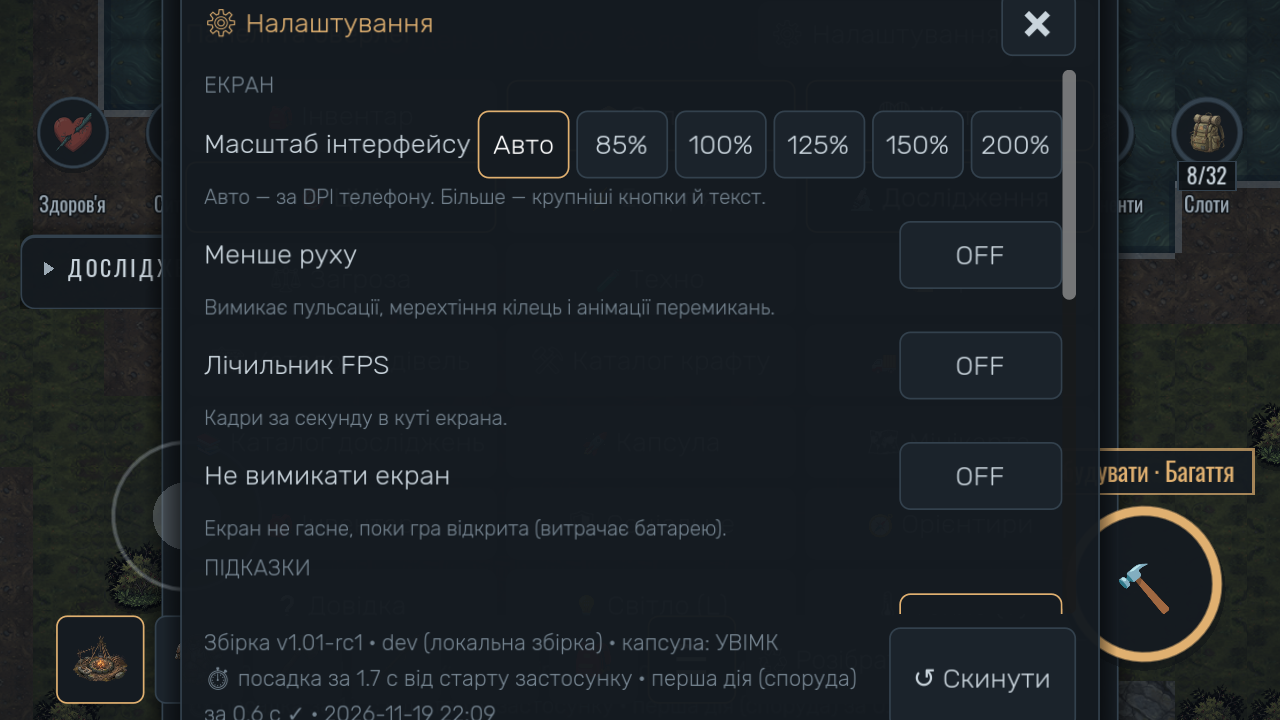
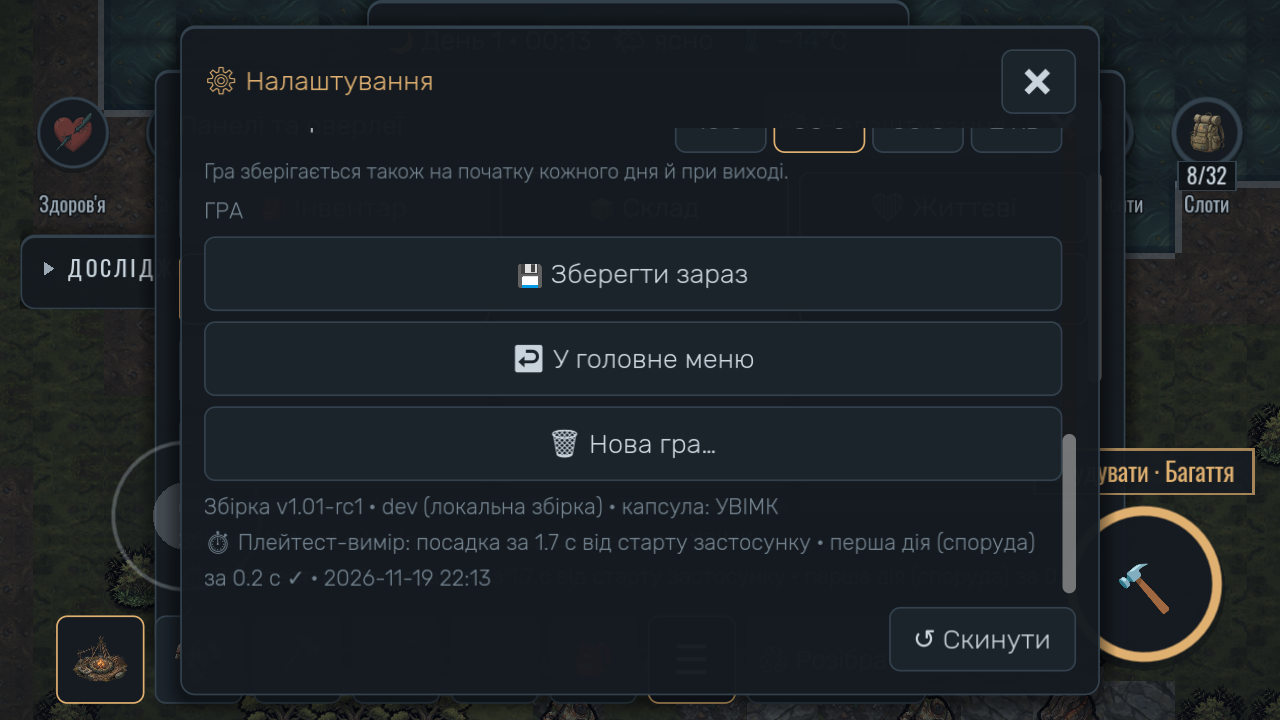
fix(ui): вікно налаштувань влазить в екран телефона; плейтест-виміри — у кінці прокрутки, з підписом (G3 fresh-eyes)
Claude-Session: https://claude.ai/code/session_01Xo1GdP2qYnaMYvxUXLkBJx

diff --git a/docs/process/playtests/KIT.md b/docs/process/playtests/KIT.md
@@ -11,7 +11,7 @@
 - Яка це збірка — видно в грі: ☰ → нижній рядок «Збірка v… · #запуск · sha · дата». Запиши sha в журнал.
 - Артефакти GitHub скачуються лише з акаунту з доступом до репо; для гравців — роздай APK файлом/посиланням сам.
 - Місто/seed: одна й та сама висадка для всіх гравців, щоб порівнювати.
-- **Секундомір не потрібен (G4, REQ-0010-42 / REQ-0012-52).** Збірка сама міряє «старт застосунку → посадка» і «посадка → перша дія гравця» (збір або споруда). Після гравця: ☰ → ⚙ Налаштування → унизу рядки «⏱ посадка за … · перша дія (…) за … ✓/✗» (останні 5 висадок, найновіша зверху). Перепиши їх у бланк.
+- **Секундомір не потрібен (G4, REQ-0010-42 / REQ-0012-52).** Збірка сама міряє «старт застосунку → посадка» і «посадка → перша дія гравця» (збір або споруда). Після гравця: ☰ → ⚙ Налаштування → прогорни донизу: рядки «⏱ Плейтест-вимір: посадка за … · перша дія (…) за … ✓/✗» (останні 5 висадок, найновіша зверху). Перепиши їх у бланк.
 - Між гравцями: ⚙ → «Нова гра» і одразу віддай телефон — відлік наступного гравця йде від появи меню (у рядку буде «від меню», а не «від старту застосунку»); попередні виміри лишаються в списку.
 
 ## 1. Картка гравця (читає гравець; більше нічого не пояснюй)
@@ -30,7 +30,7 @@
 
 **Гравець:** P__ · **Жанри/досвід:** ______ · **Пристрій:** ______ · **Дата:** ______ · **Білд SHA:** `6b75f20`
 
-Задача 1 — числа з гри (⚙ Налаштування, рядок ⏱); задачі 2–5 — таймер спостерігача від посадки.
+Задача 1 — числа з гри (⚙ Налаштування, донизу, рядок ⏱); задачі 2–5 — таймер спостерігача від посадки.
 
 | Задача | Почав, с | Закінчив, с | Без допомоги? (так/ні) | Зупинки >5 с (де · на чому) | Що натискав помилково |
 |---|---|---|---|---|---|

diff --git a/docs/release/1.01.md b/docs/release/1.01.md
@@ -23,7 +23,7 @@
 
 ## Відкриті гейти (потрібні люди й вимір, не код)
 _Закрито G3 за 2026-11-18: `REQ-0010-39` done (5 з 5 читачів після правок); `REQ-0014-17` withdrawn — чипа першої цілі в реальному часі нема._
-- `REQ-0010-42` — G4: хронометраж «від старту застосунку» до першої осмисленої дії. Секундомір не потрібен: збірка міряє сама, числа останніх 5 висадок — у ⚙ Налаштування (унизу), останнє — у ☰. Лишилось зіграти на телефоні з новачком.
+- `REQ-0010-42` — G4: хронометраж «від старту застосунку» до першої осмисленої дії. Секундомір не потрібен: збірка міряє сама, числа останніх 5 висадок — у ⚙ Налаштування (прогорнути донизу), останнє — у ☰. Лишилось зіграти на телефоні з новачком.
 - `REQ-0010-43` — G5: новачок виконує задачі капсули без жорстких підказок.
 - `REQ-0010-121` — людська частина G5 (різниця «рівень» і «захист»); машинна частина є.
 - `REQ-0012-42`, `REQ-0012-52` — порядок екранів «Орбіта → вибір місця → посадка» й G4-вимір.
